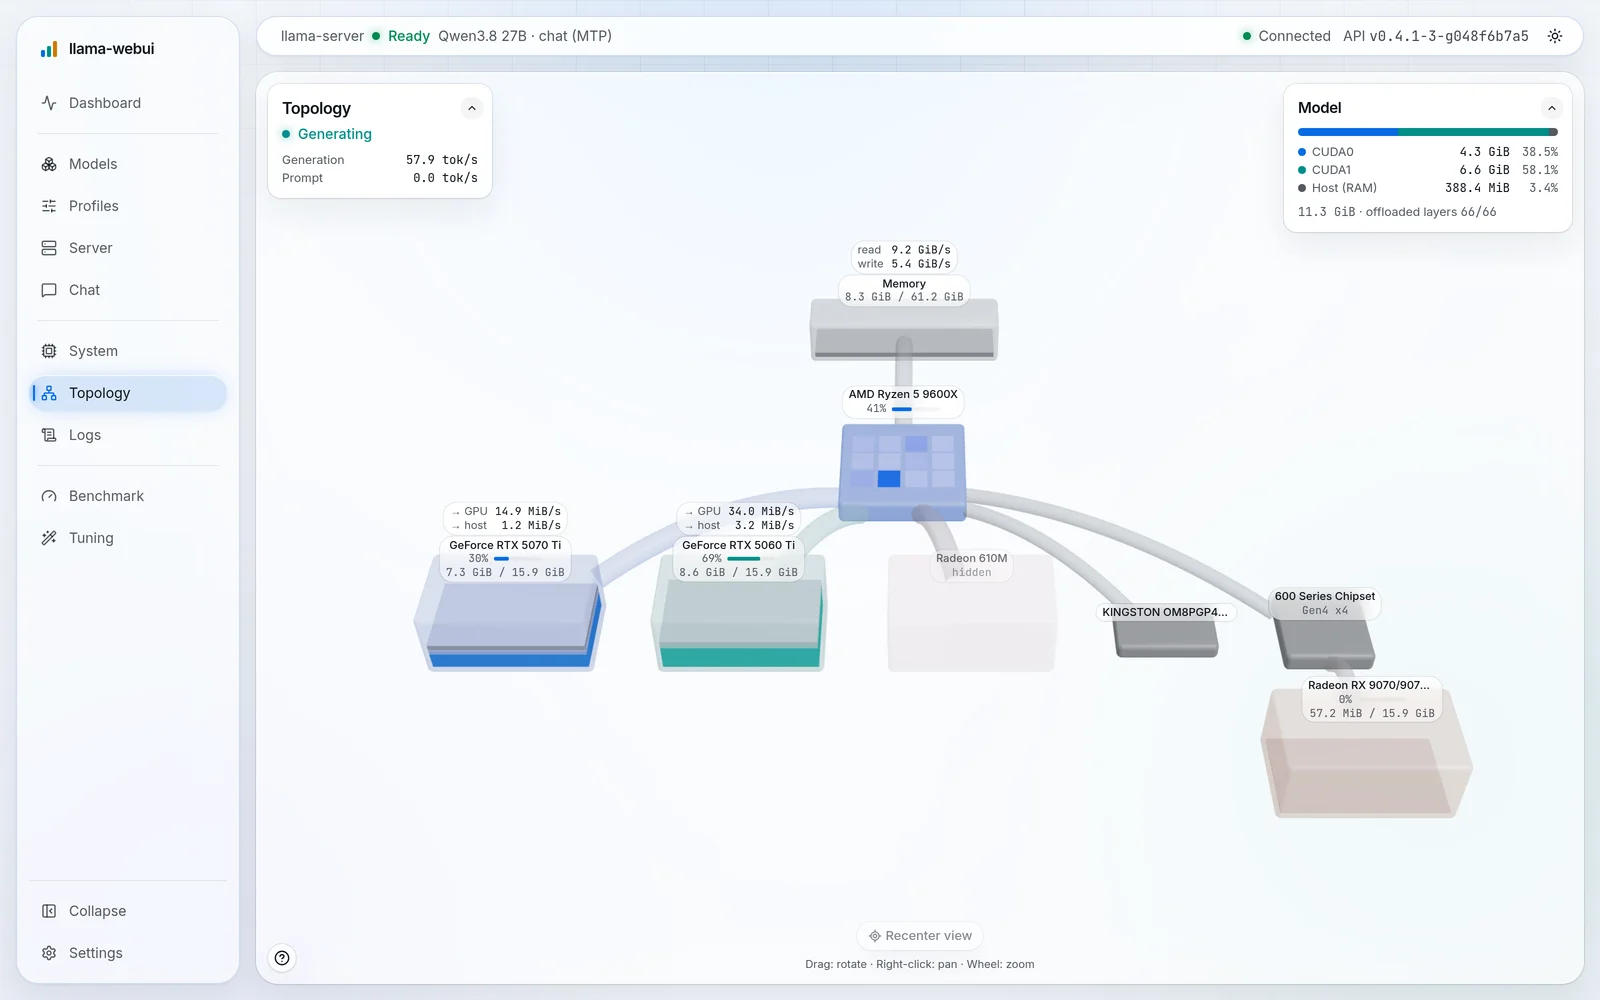
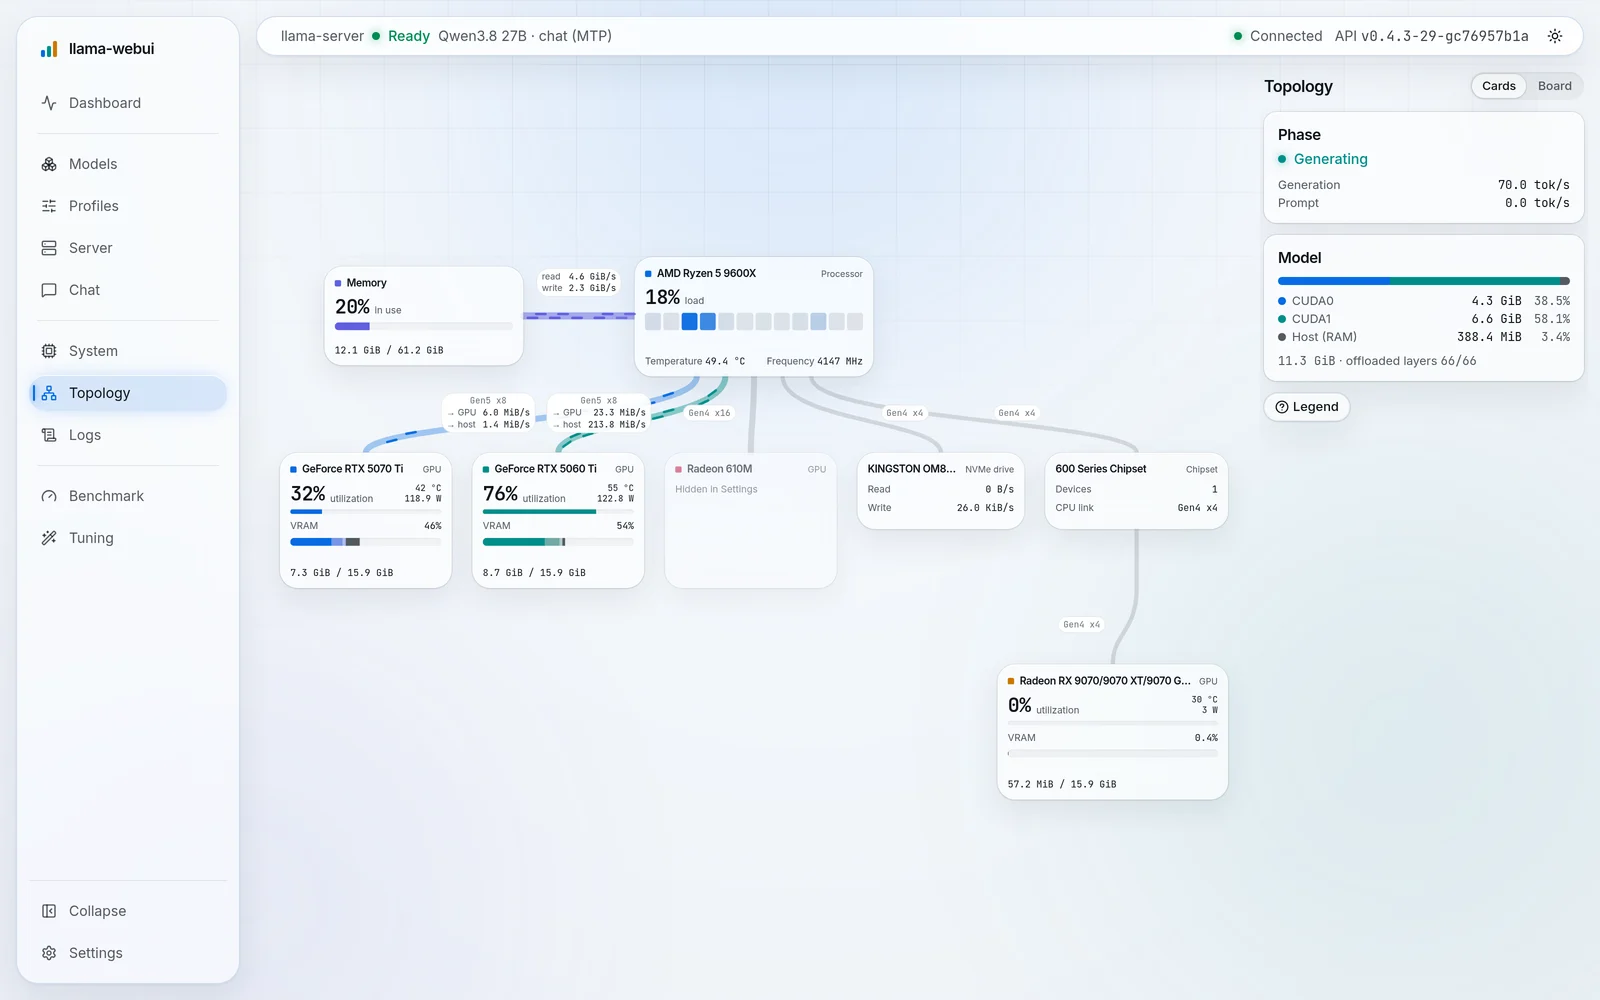
docs: Retake the Topology screenshots in 2D, one per view
The captures of the site, the image of the README and the crop of the
landing card now show the 2D page; the Topology page of the docs gains
the capture of the Board view.

diff --git a/site/src/landing/sections/MonitoringSection.tsx b/site/src/landing/sections/MonitoringSection.tsx
@@ -67,7 +67,7 @@ export function MonitoringSection() {
               <Shot
                 name="topology"
                 alt="Topology page: the CPU, memory, GPUs and NVMe drive as cards joined by their links, the GPUs filled to the memory they hold, with the model split per device"
-                crop={{ x: 0.155, y: 0.055, w: 0.84, h: 0.935 }}
+                crop={{ x: 0.16, y: 0.055, w: 0.835, h: 0.77 }}
                 width="min(46rem, 90vw)"
                 className={SHOT_FRAME}
               />
